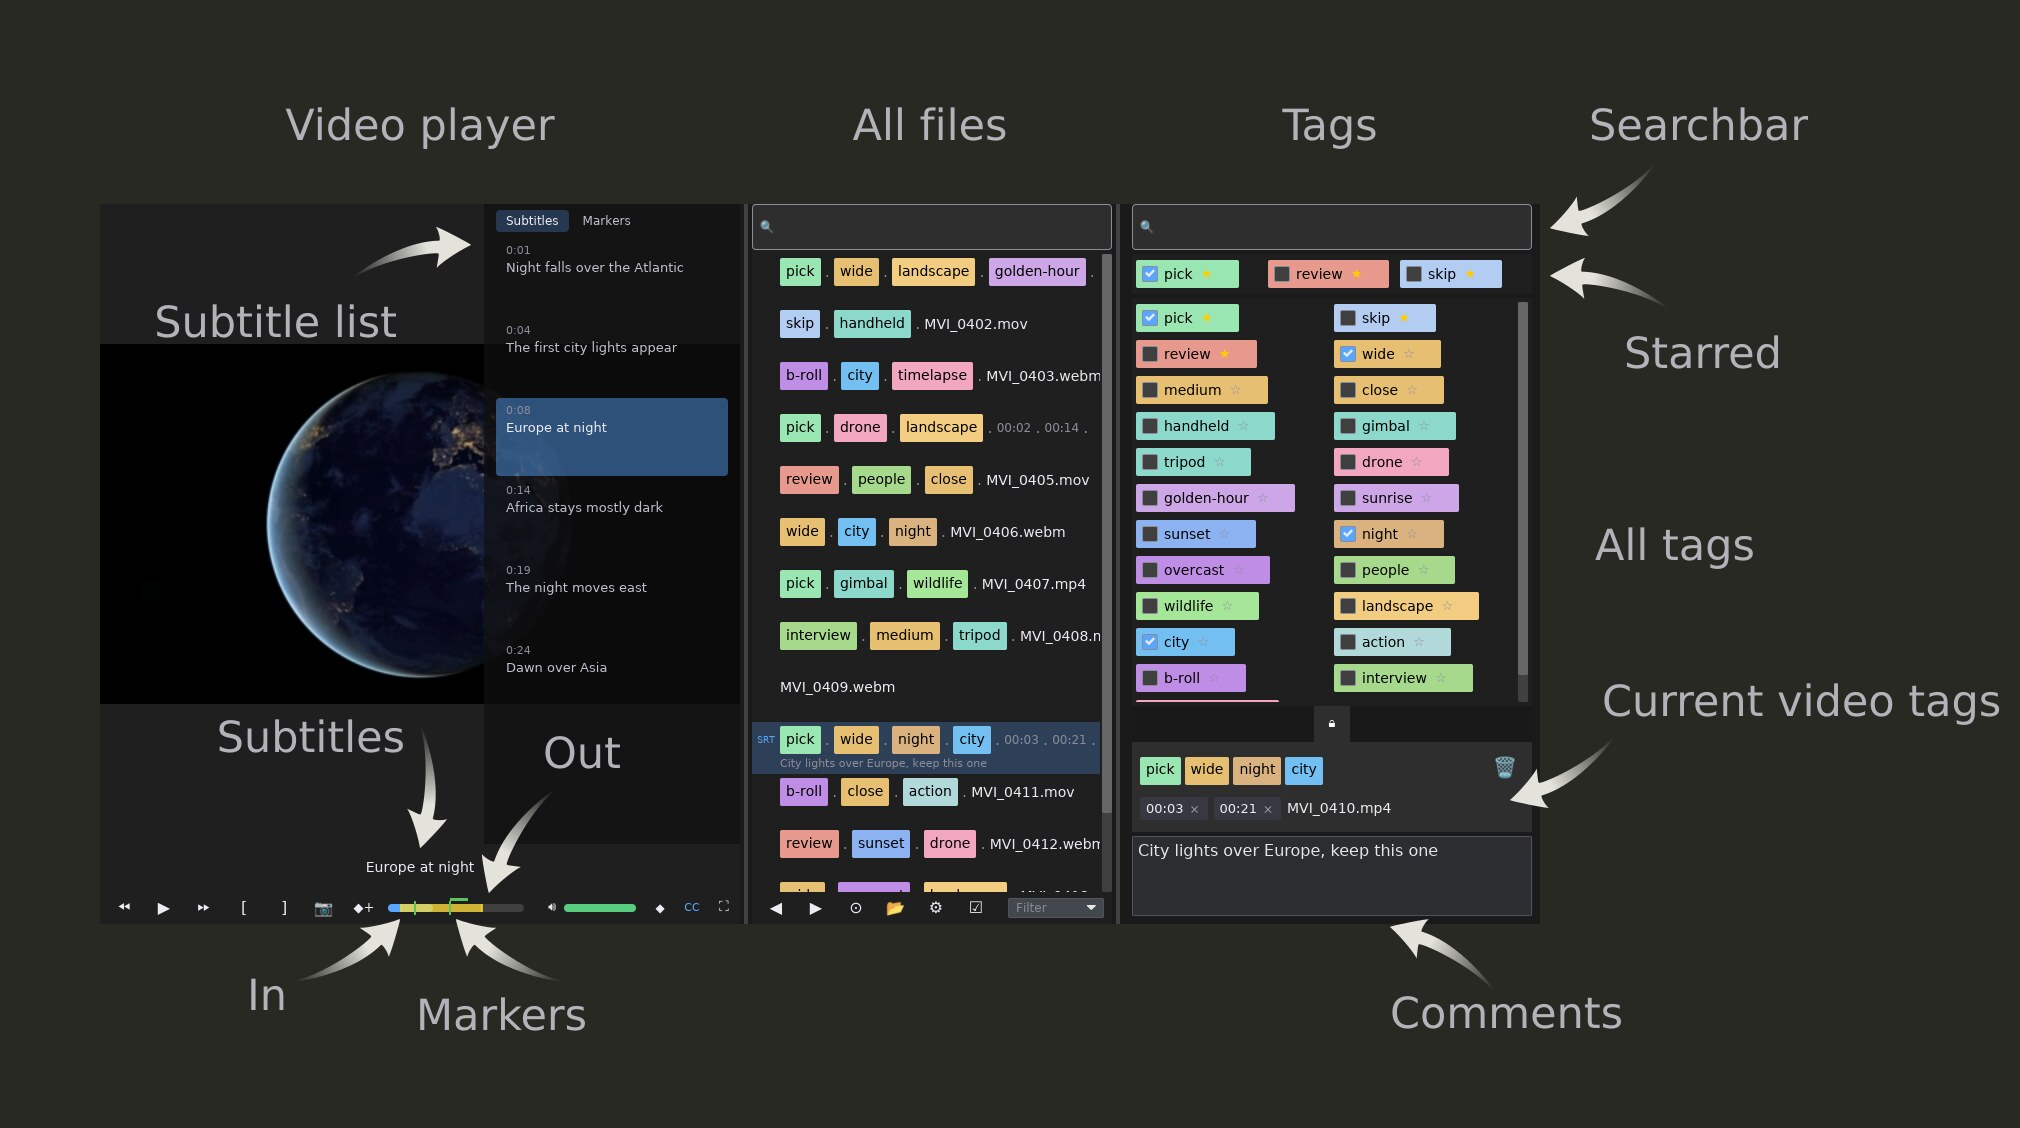
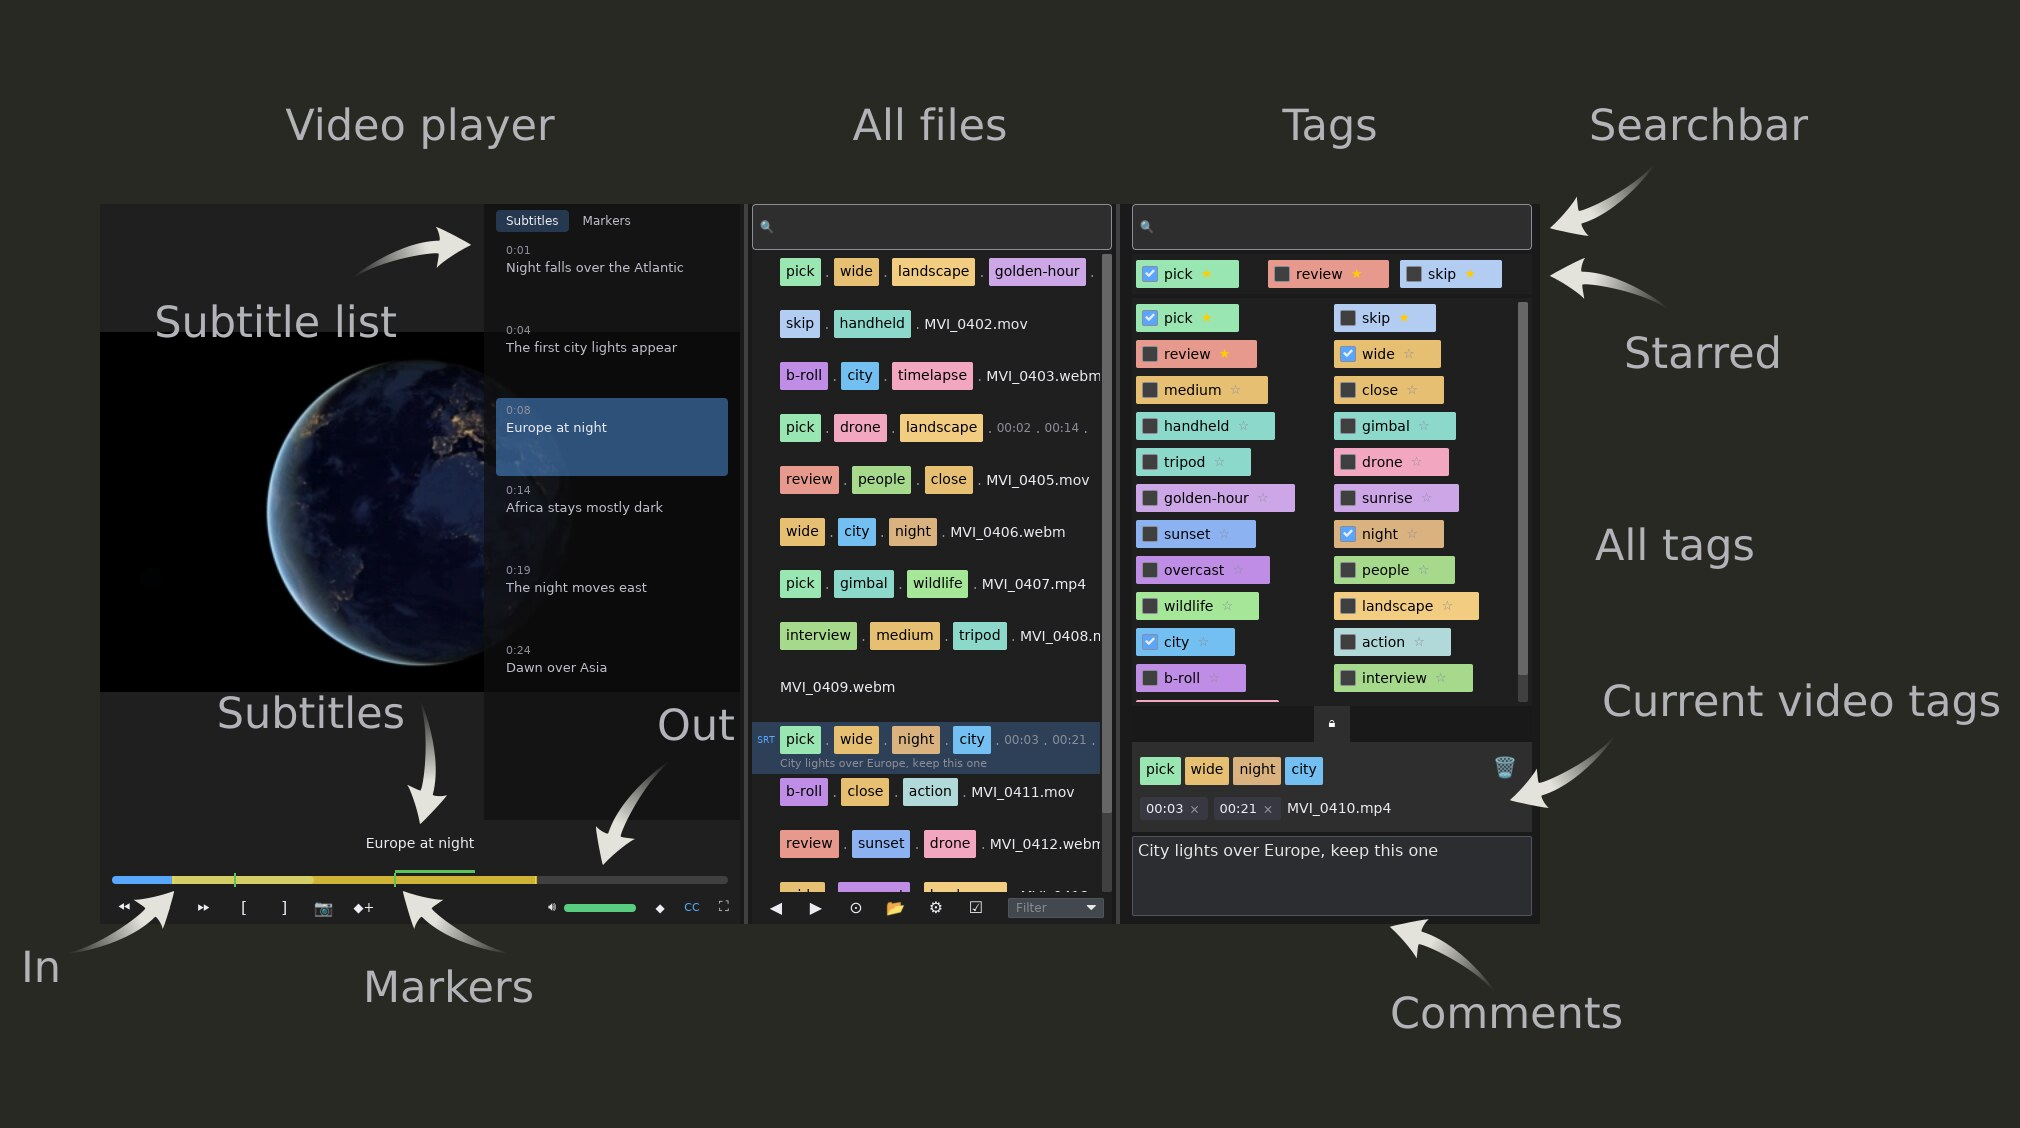
Progress bar on its own row when the video panel is narrow
Below 760 px the one-row controls left the bar about 90 px long. The video view now
measures its width (responsive) and puts the bar on a full-width row above the buttons;
wider players keep the single row. README screenshot arrows follow the new layout.

Claude-Session: https://claude.ai/code/session_01GjGFq4Qetaee9rCNwSx1hj

diff --git a/src/features/media_viewer/video/view.rs b/src/features/media_viewer/video/view.rs
@@ -13,6 +13,10 @@ use crate::features::video_controls::{self, BarMarker};
 use crate::theme;
 
 const CONTROLS_HEIGHT: f32 = 32.0;
+/// Below this width the progress bar gets a row of its own above the buttons: the buttons,
+/// volume and list toggles of one row take about 520 px, which would leave the bar too short.
+const BAR_OWN_ROW_BELOW: f32 = 760.0;
+const BAR_ROW_HEIGHT: f32 = 24.0;
 /// Fixed so the video does not jump as cues of one or two lines come and go.
 const SUBTITLE_STRIP_HEIGHT: f32 = 48.0;
 const SUBTITLE_STRIP_TEXT_SIZE: f32 = 14.0;
@@ -44,6 +48,29 @@ pub fn view<'a>(
     segment_start: Option<f32>,
     segment_end: Option<f32>,
     markers: MarkersView<'a>,
+) -> Element<'a, Message> {
+    // The layout of the controls depends on the width the player gets.
+    iced::widget::responsive(move |size| {
+        sized_view(
+            state,
+            is_fullscreen,
+            segment_start,
+            segment_end,
+            markers,
+            size.width,
+        )
+    })
+    .into()
+}
+
+/// [`view`] for a player `width` pixels wide.
+fn sized_view<'a>(
+    state: &'a VideoPlayerState,
+    is_fullscreen: bool,
+    segment_start: Option<f32>,
+    segment_end: Option<f32>,
+    markers: MarkersView<'a>,
+    width: f32,
 ) -> Element<'a, Message> {
     if let Some(video) = state.current_video() {
         let player = VideoPlayer::new(video)
@@ -109,7 +136,7 @@ pub fn view<'a>(
             (subtitles.is_some() && !is_fullscreen).then(|| cue_list_button(state.show_cue_list()));
         let marker_list_btn = marker_list_button(state.show_marker_list());
 
-        let bar_markers = markers
+        let bar_markers: Vec<BarMarker> = markers
             .markers
             .unwrap_or_default()
             .iter()
@@ -119,6 +146,25 @@ pub fn view<'a>(
                 color: theme::marker_color(m.color),
             })
             .collect();
+        // A narrow player would squeeze the bar between the buttons: give it a row of its own.
+        let bar_on_own_row = width < BAR_OWN_ROW_BELOW;
+        let bar_row: Option<Element<'_, Message>> = bar_on_own_row.then(|| {
+            container(
+                video_controls::view::progress_bar(
+                    state.controls(),
+                    position_secs,
+                    segment_start,
+                    segment_end,
+                    bar_markers.clone(),
+                )
+                .map(Message::Controls),
+            )
+            .padding([0, 12])
+            .width(Length::Fill)
+            .center_y(BAR_ROW_HEIGHT)
+            .style(theme::panel_container_style)
+            .into()
+        });
         let controls_inner = video_controls::view::view(
             state.controls(),
             position_secs,
@@ -126,6 +172,7 @@ pub fn view<'a>(
             segment_end,
             bar_markers,
             markers.markers.is_some(),
+            bar_on_own_row,
         )
         .map(Message::Controls);
 
@@ -169,6 +216,7 @@ pub fn view<'a>(
 
         column![video_area]
             .push(strip)
+            .push(bar_row)
             .push(controls)
             .width(Length::Fill)
             .height(Length::Fill)

diff --git a/src/features/video_controls/view.rs b/src/features/video_controls/view.rs
@@ -13,7 +13,9 @@ const CONTROLS_HEIGHT: f32 = 32.0;
 /// `position_secs` is the live playback position read from the video at view time.
 /// `segment_start` and `segment_end` are the optional segment markers (in seconds) for the current file.
 /// `markers` are the clip markers (in seconds) drawn on the bar; `can_add_markers` is false when
-/// the file cannot hold them.
+/// the file cannot hold them. With `bar_on_own_row` the progress bar is left out (the caller puts
+/// [`progress_bar`] on a row of its own) and the buttons keep to the left, the volume to the right.
+#[allow(clippy::too_many_arguments)]
 pub fn view<'a>(
     state: &'a VideoControlsState,
     position_secs: f32,
@@ -21,6 +23,7 @@ pub fn view<'a>(
     segment_end: Option<f32>,
     markers: Vec<BarMarker>,
     can_add_markers: bool,
+    bar_on_own_row: bool,
 ) -> Element<'a, Message> {
     let back10_btn: Element<'_, Message> = tooltip(
         button(
@@ -103,18 +106,12 @@ pub fn view<'a>(
     )
     .into();
 
-    let duration = state.duration_secs();
-    // While seeking, show the drag position; otherwise use live video position
-    let current_pos = if state.is_seeking() {
-        state.seek_position_secs()
+    // On a row of its own the bar is left out here and a gap pushes the volume to the right.
+    let bar: Element<'_, Message> = if bar_on_own_row {
+        Space::new().width(Length::Fill).into()
     } else {
-        position_secs
+        progress_bar(state, position_secs, segment_start, segment_end, markers)
     };
-
-    let bar = ProgressBar::new(0.0..=duration, current_pos, Message::Seek)
-        .on_release(Message::SeekReleased)
-        .segment_range(segment_start, segment_end)
-        .markers(markers);
 
     let volume_icon: Element<'_, Message> =
         container(text("🔊").size(13)).center_y(Length::Fill).into();
@@ -184,5 +181,26 @@ pub fn view<'a>(
         .width(iced::Length::Fill)
         .height(CONTROLS_HEIGHT)
         .style(theme::panel_container_style)
+        .into()
+}
+
+/// The seek bar with the in/out range and the clip markers, filling the width it is given.
+pub fn progress_bar<'a>(
+    state: &'a VideoControlsState,
+    position_secs: f32,
+    segment_start: Option<f32>,
+    segment_end: Option<f32>,
+    markers: Vec<BarMarker>,
+) -> Element<'a, Message> {
+    // While seeking, show the drag position; otherwise use live video position
+    let current_pos = if state.is_seeking() {
+        state.seek_position_secs()
+    } else {
+        position_secs
+    };
+    ProgressBar::new(0.0..=state.duration_secs(), current_pos, Message::Seek)
+        .on_release(Message::SeekReleased)
+        .segment_range(segment_start, segment_end)
+        .markers(markers)
         .into()
 }

diff --git a/version.md b/version.md
@@ -8,6 +8,7 @@
 ## Changed
 - `F12` just saves the current frame as a JPEG next to the video, like VLC: no mark on the progress bar, no time in the comment, and the picture is no longer renamed with the video. Frames saved before stay on disk.
 - `F1`, `F3` and `F12` no longer react while `Shift` is held.
+- When the video panel is narrow, the progress bar gets a row of its own above the buttons, so it stays long enough to seek.
 
 # 0.68
 ## Added
